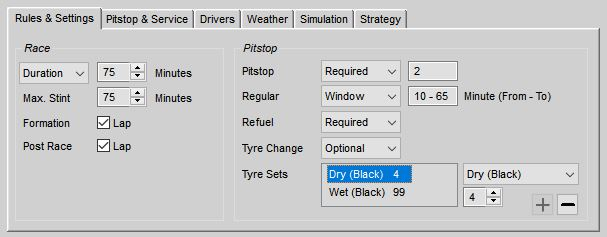
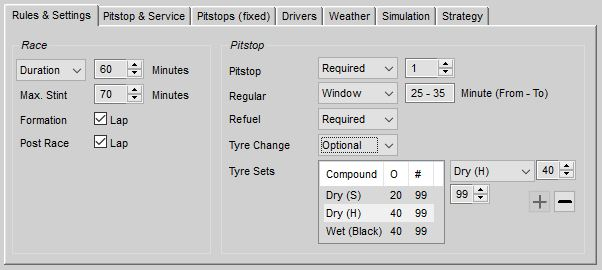
Documentation Update

diff --git a/Docs/Strategy Workbench.md b/Docs/Strategy Workbench.md
@@ -121,7 +121,8 @@ Notes:
   1. If you have set a number of required pitstops **and** a pitstop window, it depends on the starting fuel, whether the requirements can be met.
   2. If you have set a pitstop window, it is possible that some settings of the optimizer will be ignored to fullfil the pitstop window requirements.
   3. If you choose "Disallowed" for refueling or tyre change, this restriction applies to the whole session. If you have to apply more context specific restrictions, this can be achieved using the rule based validations, which are described in the next section.
-  4. If you are simulating a session with a restricted number of tyre sets, the simulation will keep track of the the tyre usage and may reuse a tyre set, when necessary. In this case, the tyre set with the least amount of usage will always be used next.
+  4. Using the list labeled "Tyre Sets" you can specify how many laps are typically possible with a give tyre compound mixture and how many tyre sets of each of these are available. This will be used to determine the best tyre set for each pitstop in the derived strategy. Typically all tyre compound mixtures, which are generally available for a given car are listed here. If a given compound mixture is not available for a particular race or should not be used in the resulting strategy, set the number of available tyre sets to **0**.
+  5. If you are simulating a session with a restricted number of tyre sets, the simulation will keep track of the the tyre usage and may reuse a tyre set, when necessary. In this case, the tyre set with the least amount of usage will always be used next.
   
 #### Scenario validation
 
@@ -412,7 +413,7 @@ Enter the required values in the *Initial Conditions* group, choose the data to 
 	
   - Tyre Usage
   
-	Here you have a range from 0 to 100% to enable some kind of *over-* or *underuse* of tyres. If you set the "Tyre Usage" slider to 30%, for example, this means that the tyres can be used for 54 laps, even if the optimum tyre life is at the beginning 40 laps was set. This might be useful to skip the tyre change in the last shorter stint of an endurance race. The number of possible laps will be varied on a stint by stint base, not only for the whole race.
+	Here you have a range from 0 to 100% to enable some kind of *over-* or *underuse* of tyres. If you set the "Tyre Usage" slider to 30%, for example, this means that the tyres can be used for 54 laps, even if the optimum tyre life for the given tyre compound mixture has been defined as 40 laps. This might be useful to skip the tyre change in the last shorter stint of an endurance race. The number of possible laps will be varied on a stint by stint base, not only for the whole race.
 	
   - Tyre Compound
   

diff --git a/Docs/AI Race Strategist.md b/Docs/AI Race Strategist.md
@@ -144,6 +144,8 @@ Normally, Cato will use a predefined strategy which can be created using the ["S
 
 To prepare for a race with this kind of strategy handling, set *Active* to "Yes" and enter the race rules using the entry fields below. This settings have more than less the same meaning as in the [tab *Rules & Settings*](https://github.com/SeriousOldMan/Simulator-Controller/wiki/Strategy-Workbench#rules--settings) in the "Strategy Workbench". Most important is the number of required pitstops and whether refueling and tyre changes are required. You can also define a pitstop window here. And if the session has a restricted number of tyre sets, you can specify them as well. Please note, that additional information from the other tabs will also be used when the resulting strategy is calculated, for example the session configuration with formation lap and post race lap or the pitstop service times.
 
+Using the list in the lower part you can specify how many laps are typically possible with a give tyre compound mixture and how many tyre sets of each of these are available. This will be used by Cato to determine the best tyre set for each pitstop in the derived strategy. If a given compound mixture is not available in a particular race, set the number of available tyre sets to **0**.
+
 #### Tab *Strategy*
 
 You will find settings for the race strategy analysis and simulation in the fourth tab of the settings tool.
